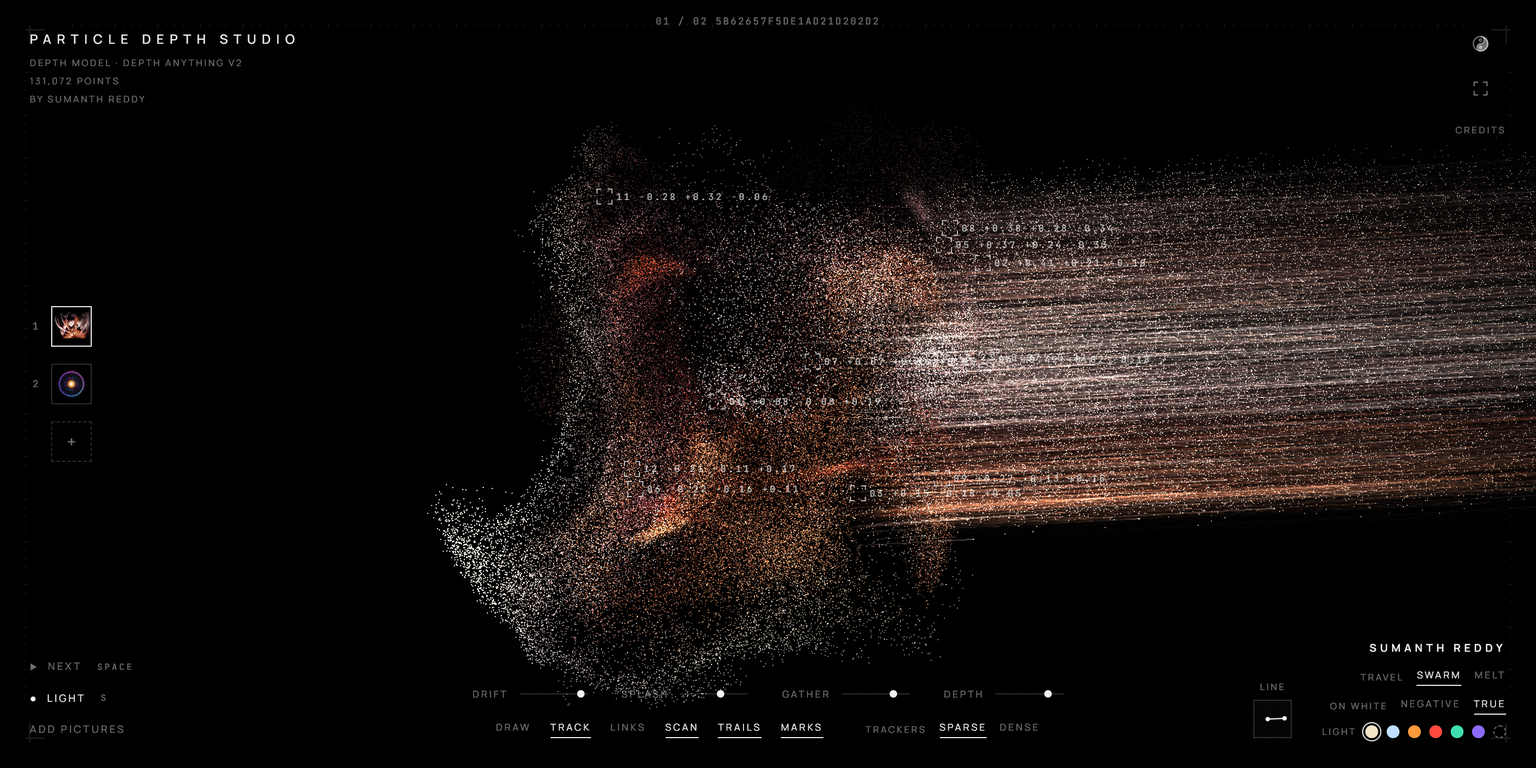
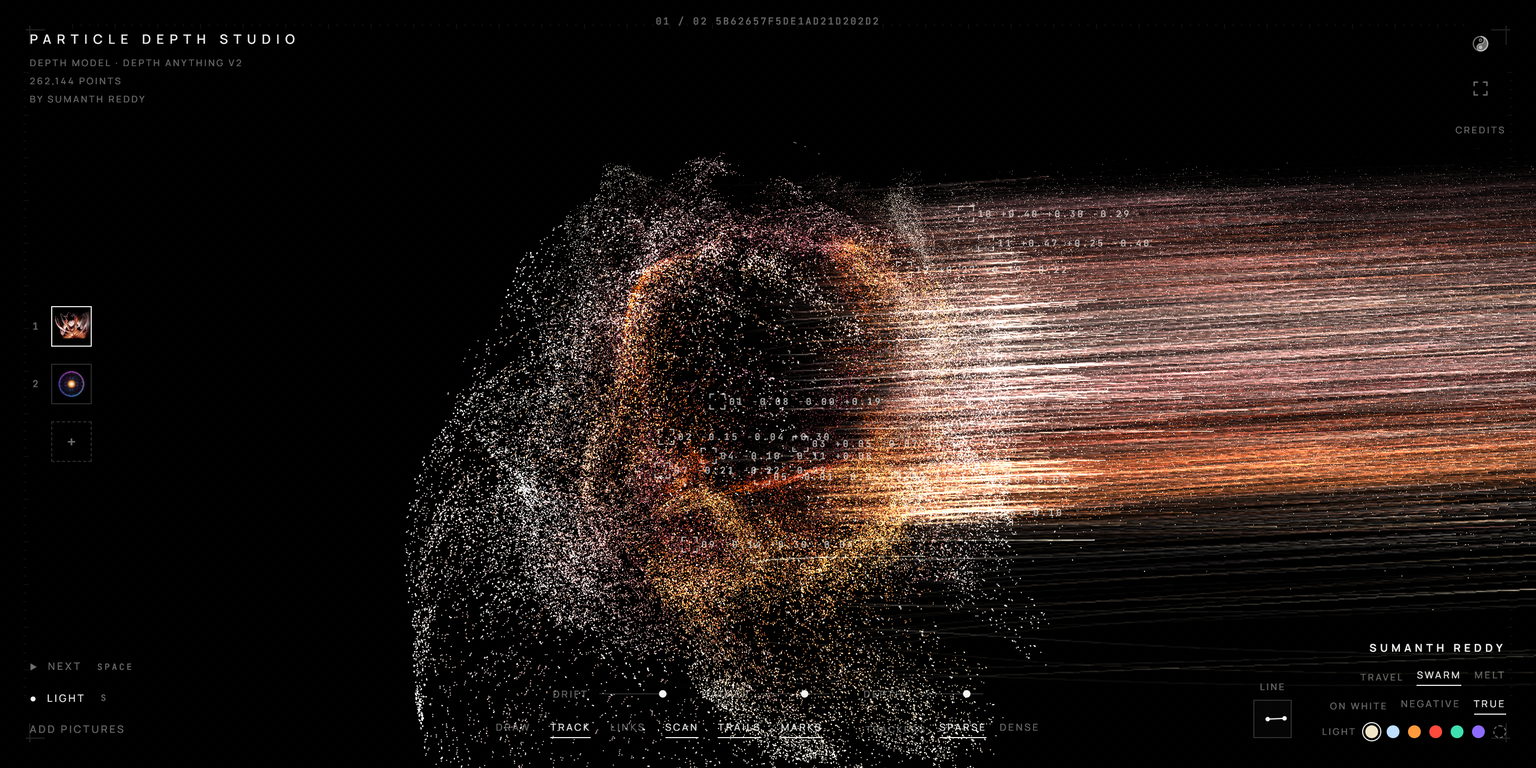
feat: upgrade particle density to 262k, remove splash, fix gather & drift dynamics, center wavy scan, and decouple track

Changed region(s): [[0.25, 0.1875, 1.0, 1.0], [0.25, 0.9062, 0.2812, 0.9375], [0.0312, 0.0938, 0.0625, 0.125]]

diff --git a/src/core/Simulation.ts b/src/core/Simulation.ts
@@ -51,6 +51,7 @@ export class Simulation {
     const pu = this.posVariable.material.uniforms;
     pu['uDt'] = { value: 0.016 };
     pu['uDrift'] = { value: 0.8 };
+    pu['uGather'] = { value: 0.8 };
     pu['uLine'] = { value: new THREE.Vector2(0.4, 0.3) };
 
     // Velocity uniforms
@@ -58,7 +59,6 @@ export class Simulation {
     vu['uTime'] = { value: 0.0 };
     vu['uDt'] = { value: 0.016 };
     vu['uDrift'] = { value: 0.8 };
-    vu['uSplash'] = { value: 0.6 };
     vu['uGather'] = { value: 0.8 };
     vu['uDepth'] = { value: 0.8 };
     vu['uMorph'] = { value: 0.0 };
@@ -138,13 +138,13 @@ export class Simulation {
 
     this.posVariable.material.uniforms['uDt'].value = safeDt;
     this.posVariable.material.uniforms['uDrift'].value = params.drift;
+    this.posVariable.material.uniforms['uGather'].value = params.gather;
     this.posVariable.material.uniforms['uLine'].value.set(lineX, lineY);
 
     const vu = this.velVariable.material.uniforms;
     vu['uTime'].value = time;
     vu['uDt'].value = safeDt;
     vu['uDrift'].value = params.drift;
-    vu['uSplash'].value = params.splash;
     vu['uGather'].value = params.gather;
     vu['uDepth'].value = params.depth;
     vu['uMorph'].value = morphProgress;

diff --git a/src/main.ts b/src/main.ts
@@ -111,14 +111,6 @@ class App {
     window.addEventListener('pointermove', (e) => {
       this.engine.setPointer(e.clientX, e.clientY);
     });
-
-    window.addEventListener('click', (e) => {
-      const target = e.target as HTMLElement;
-      if (target.closest('.ui-layer') || target.tagName === 'BUTTON' || target.tagName === 'INPUT') {
-        return;
-      }
-      this.engine.triggerSplash();
-    });
   }
 
   private bindResize(): void {
@@ -140,7 +132,7 @@ class App {
     // Update 2D tracker HUD (only if an image is loaded)
     if (this.images.length > 0) {
       const trackers = this.engine.getTrackerPoints();
-      this.hud.render(trackers, this.params.marks, this.params.links);
+      this.hud.render(trackers, this.params.track && this.params.marks, this.params.links);
     } else {
       this.hud.render([], false, false);
     }

diff --git a/index.html b/index.html
@@ -85,10 +85,6 @@
               <label for="sl-drift">DRIFT</label>
               <input type="range" id="sl-drift" min="0" max="1" step="0.01" value="0.80" />
             </div>
-            <div class="slider-group" data-param="splash">
-              <label for="sl-splash">SPLASH</label>
-              <input type="range" id="sl-splash" min="0" max="1" step="0.01" value="0.60" />
-            </div>
             <div class="slider-group" data-param="gather">
               <label for="sl-gather">GATHER</label>
               <input type="range" id="sl-gather" min="0" max="1" step="0.01" value="0.80" />

diff --git a/src/core/Sampler.ts b/src/core/Sampler.ts
@@ -147,9 +147,9 @@ export function sampleImageParticles(
 
   const aspect = w / h;
 
-  // High-density 512x256 = 131,072 particles (ultra-sharp stipple reproduction, lightweight 2MB VRAM)
+  // Ultra high-density 512x512 = 262,144 particles (photographic stipple reproduction, ultra-fine dust)
   const texWidth = 512;
-  const texHeight = 256;
+  const texHeight = 512;
   const N = texWidth * texHeight;
 
   const home = new Float32Array(N * 4);

diff --git a/src/core/ParticleRenderer.ts b/src/core/ParticleRenderer.ts
@@ -165,7 +165,7 @@ export class ParticleRenderer {
         tVel: { value: null },
         tColor: { value: null },
         tColorNext: { value: null },
-        uSize: { value: 1.4 },
+        uSize: { value: 1.05 },
         uDpr: { value: Math.min(2.0, window.devicePixelRatio || 1.0) },
         uMorph: { value: 0.0 },
         uDrift: { value: 0.8 },

diff --git a/src/ui/Panel.ts b/src/ui/Panel.ts
@@ -67,7 +67,6 @@ export class Panel {
   private bindSliders(): void {
     const sliderDefs: { id: string; key: keyof Params }[] = [
       { id: 'sl-drift', key: 'drift' },
-      { id: 'sl-splash', key: 'splash' },
       { id: 'sl-gather', key: 'gather' },
       { id: 'sl-depth', key: 'depth' },
     ];

diff --git a/src/core/Engine.ts b/src/core/Engine.ts
@@ -211,7 +211,7 @@ export class Engine {
 
     this.flowField.update(dt);
 
-    const effectivePointer = this.params.track ? this.pointerWorld : new THREE.Vector3(999, 999, 0);
+    const effectivePointer = new THREE.Vector3(999, 999, 0);
     this.sim.update(
       dt,
       time,

diff --git a/src/core/params.ts b/src/core/params.ts
@@ -49,7 +49,7 @@ export const defaults: Params = {
 
   line: { angle: 0.05, length: 0.85 }, // default streak angle pointing towards the right
   lineMode: 'streak',
-  pointCount: 131072,
+  pointCount: 262144,
   quality: 'auto',
 };
 
